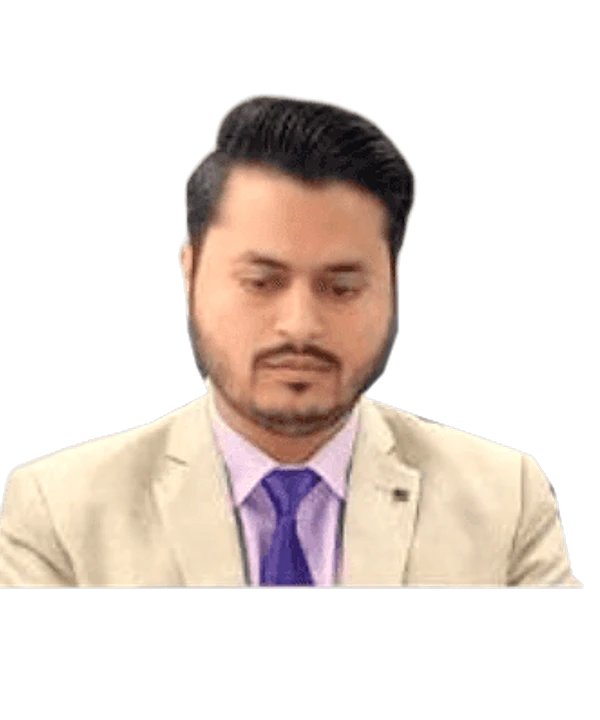
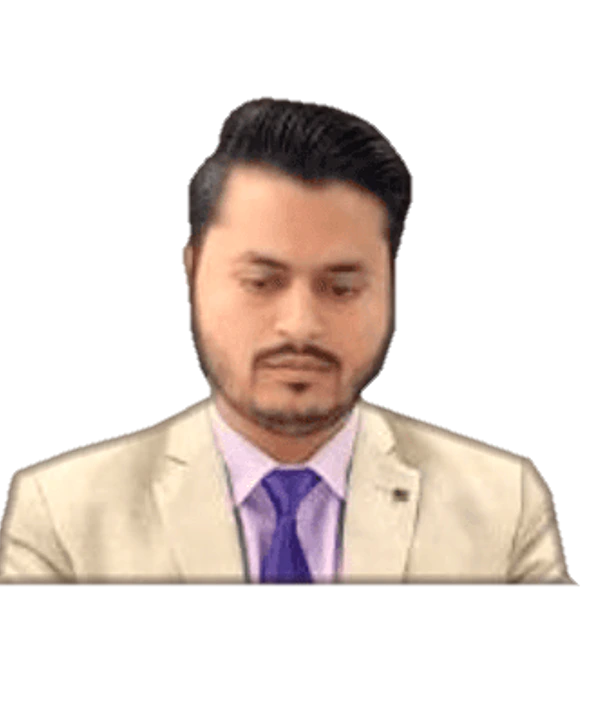
Remove light fringe from leadership portraits and fix the hover seam

diff --git a/styles.css b/styles.css
@@ -415,14 +415,15 @@ html[dir="rtl"] #railNext { --dir: -1; } html[dir="rtl"] #railPrev { --dir: 1; }
 .values h3 { font-size: 19px; margin-bottom: 10px; }
 .values p { color: var(--muted); font-size: 15.5px; }
 .team { display: grid; grid-template-columns: repeat(3, 1fr); gap: 18px; }
-.person { overflow: hidden; border-radius: 22px; background: var(--surface); border: 1px solid var(--line); transition: transform .5s var(--ease), border-color .4s; }
+.person { overflow: hidden; isolation: isolate; border-radius: 22px; background: var(--surface); border: 1px solid var(--line); transition: transform .5s var(--ease), border-color .4s; }
 .person:hover { transform: translateY(-6px); border-color: var(--orange); }
 .person__photo { position: relative; aspect-ratio: 1 / 1.02; overflow: hidden; background: radial-gradient(62% 52% at 50% 36%, rgba(244,122,32,.42), transparent 72%), linear-gradient(165deg, #2B1613, #0F0E10 75%); }
 .person__photo img { display: block; width: 100%; height: auto; transition: transform .8s var(--ease); transform-origin: 50% 35%; }
 .person:hover .person__photo img { transform: scale(1.04); }
 .person__photo::after { content: ""; position: absolute; inset: 0; background: linear-gradient(180deg, transparent 58%, var(--surface) 92%); }
 .person__photo--full::after { background: linear-gradient(180deg, transparent 72%, var(--surface) 95%); }
-.person__info { position: relative; padding: 0 24px 26px; margin-top: -30px; }
+/* Overlaps the photo's bottom edge with solid colour so no seam can show while the card animates */
+.person__info { position: relative; z-index: 1; padding: 0 24px 26px; margin-top: -30px; background: linear-gradient(180deg, transparent, var(--surface) 24px); }
 .person h3 { font-size: 22px; }
 .person__role { margin: 5px 0 11px; color: var(--orange); font-size: 18px; font-weight: 600; }
 .person__bio { color: var(--muted); font-size: 15.5px; line-height: 1.55; }
